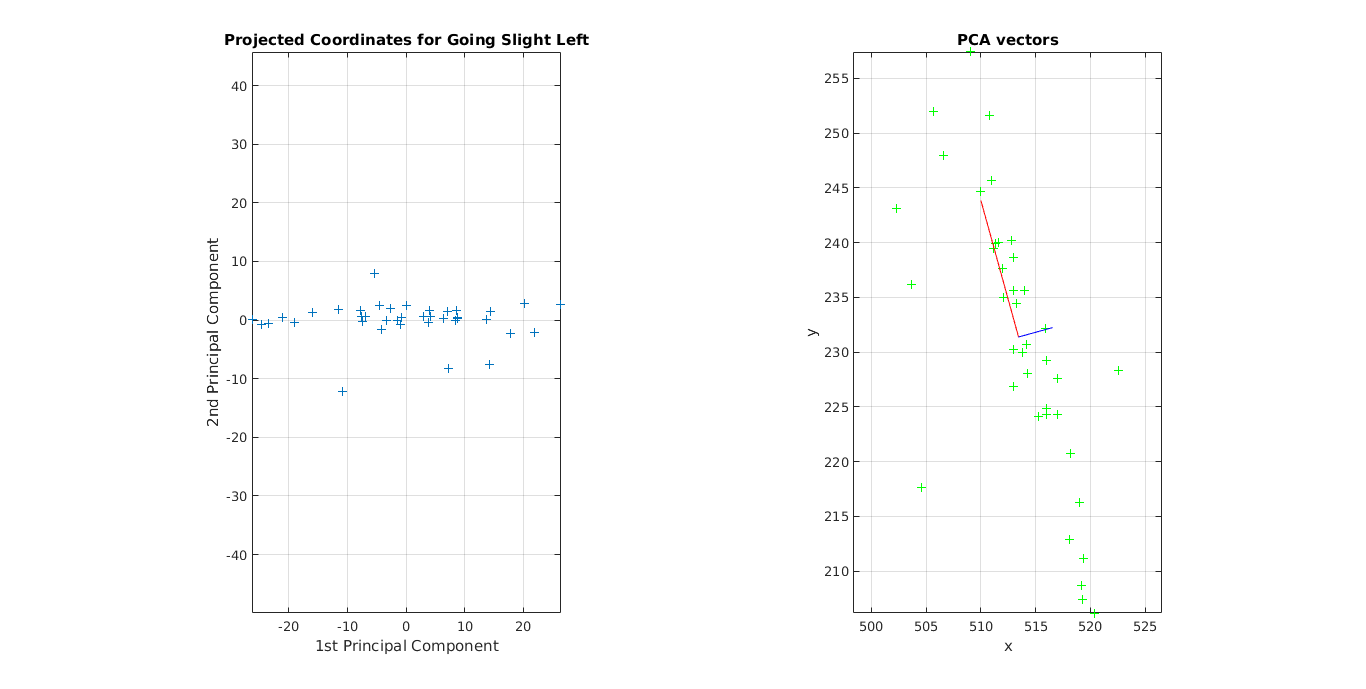
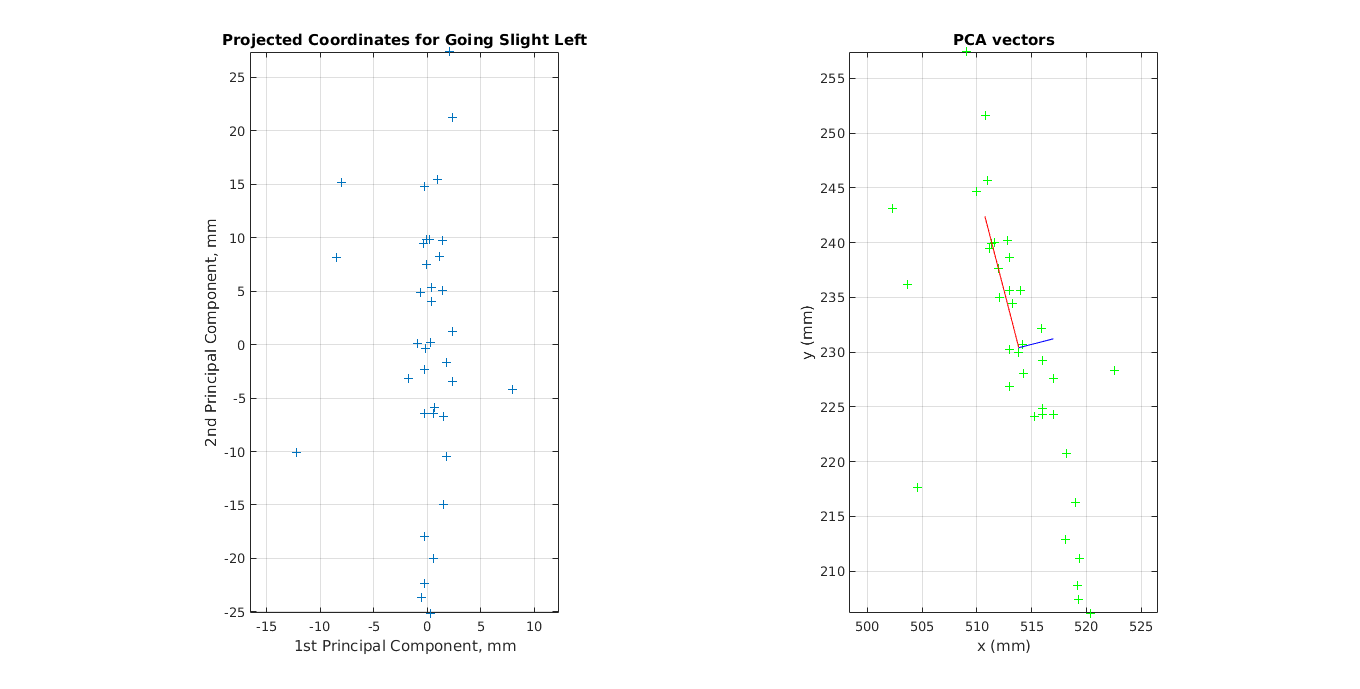
update units for figures

diff --git a/SEE_BachHa_MinhNguyen_171016.tex b/SEE_BachHa_MinhNguyen_171016.tex
@@ -157,18 +157,18 @@
             \setlength{\fboxsep}{0.5pt} %
             \setlength{\fboxrule}{0.5pt}
             \includegraphics[width=0.7\linewidth,fbox]{images/poses_plot_1_straight.png}
-            \caption{Recorded poses of the LeJOS robot going straight forward.}
+            \caption{Recorded poses of the LeJOS robot going straight forward. \textcolor{red}{(mm)}}
         \end{center}
     \end{figure}
-    \begin{figure}[h!]
+    \begin{figure}[H]
         \begin{center}
             \setlength{\fboxsep}{0.5pt} %
             \setlength{\fboxrule}{0.5pt}
             \includegraphics[width=\linewidth,fbox]{images/pca_straight.png}
-            \caption{PCA analysis of straight forward movement.}
+            \caption{\textcolor{red}{PCA analysis of straight forward movement.}}
         \end{center}
     \end{figure}
-    \begin{figure}[h!]
+    \begin{figure}[H]
         \begin{center}
             \setlength{\fboxsep}{0.5pt} %
             \setlength{\fboxrule}{0.5pt}
@@ -176,7 +176,7 @@
             \caption{Histograms of coordinates projected onto principal components for straight forward movement.}
         \end{center}
     \end{figure}
-    \begin{figure}[h!]
+    \begin{figure}[H]
         \begin{center}
             \setlength{\fboxsep}{0.5pt} %
             \setlength{\fboxrule}{0.5pt}
@@ -200,7 +200,7 @@
             \setlength{\fboxsep}{0.5pt} %
             \setlength{\fboxrule}{0.5pt}
             \includegraphics[width=0.7\linewidth,fbox]{images/poses_plot_2_slightLeft.png}
-            \caption{Recorded poses of the LeJOS robot going slightly left.}
+            \caption{Recorded poses of the LeJOS robot going slightly left. \textcolor{red}{(mm)}}
         \end{center}
     \end{figure}
 
@@ -244,7 +244,7 @@
             \setlength{\fboxsep}{0.5pt} %
             \setlength{\fboxrule}{0.5pt}
             \includegraphics[width=12cm,fbox]{images/poses_plot_3_slightRight.png}
-            \caption{Recorded poses of the LeJOS robot going slightly right.}
+            \caption{Recorded poses of the LeJOS robot going slightly right. \textcolor{red}{(mm)}}
         \end{center}
     \end{figure}
 
@@ -290,7 +290,7 @@
             \setlength{\fboxsep}{0.5pt} %
             \setlength{\fboxrule}{0.5pt}
             \includegraphics[width=12cm,fbox]{images/poses_plot_4_left.png}
-            \caption{Recorded poses of the LeJOS robot going left.}
+            \caption{Recorded poses of the LeJOS robot going left. \textcolor{red}{(mm)}}
         \end{center}
     \end{figure}
 
@@ -331,16 +331,16 @@
 	  	\item $2^{nd}$ principle component: $\mu = -9.9736e-14 \quad \sigma = 1.1463$
 	  	\item Angular error: $\mu = 1.9757e-14 \quad \sigma = 0.99084$.
 	 \end{itemize}
-    \begin{figure}[h!]
+    \begin{figure}[H]
         \begin{center}
             \setlength{\fboxsep}{0.5pt} %
             \setlength{\fboxrule}{0.5pt}
             \includegraphics[width=12cm,fbox]{images/poses_plot_5_right.png}
-            \caption{Recorded poses of the LeJOS robot going right.}
+            \caption{Recorded poses of the LeJOS robot going right. \textcolor{red}{(mm)}}
         \end{center}
     \end{figure}
 
-    \begin{figure}[h!]
+    \begin{figure}[H]
         \begin{center}
             \setlength{\fboxsep}{0.5pt} %
             \setlength{\fboxrule}{0.5pt}
@@ -349,7 +349,7 @@
         \end{center}
     \end{figure}
     
-    \begin{figure}[h!]
+    \begin{figure}[H]
         \begin{center}
             \setlength{\fboxsep}{0.5pt} %
             \setlength{\fboxrule}{0.5pt}
@@ -358,7 +358,7 @@
         \end{center}
     \end{figure}
 
-	\begin{figure}[h!]
+	\begin{figure}[H]
 		\begin{center}
 			\setlength{\fboxsep}{0.5pt} %
 			\setlength{\fboxrule}{0.5pt}

diff --git a/matlab/fitGaussian.m b/matlab/fitGaussian.m
@@ -49,12 +49,12 @@ function fitGaussian(data, direction)
     mean_x = mean(data(:,1));
     mean_y = mean(data(:,2));
     plot(data(:,1), data(:,2), 'g+',...
-        [mean_x, mean_x + coeffs(1)*sqrt(latent(1))], [mean_y, mean_y + coeffs(3)*sqrt(latent(1))], 'r',...
-        [mean_x, mean_x + coeffs(2)*sqrt(latent(2))], [mean_y, mean_y + coeffs(4)*sqrt(latent(2))], 'b');
+        [mean_x, mean_x + coeffs(1)*sqrt(latent(1))], [mean_y, mean_y - coeffs(3)*sqrt(latent(1))], 'r',...
+        [mean_x, mean_x + coeffs(2)*sqrt(latent(2))], [mean_y, mean_y - coeffs(4)*sqrt(latent(2))], 'b');
     axis equal
     grid on
-    xlabel('x');
-    ylabel('y');
+    xlabel('x (mm)');
+    ylabel('y (mm)');
     title('PCA vectors');
 
         
